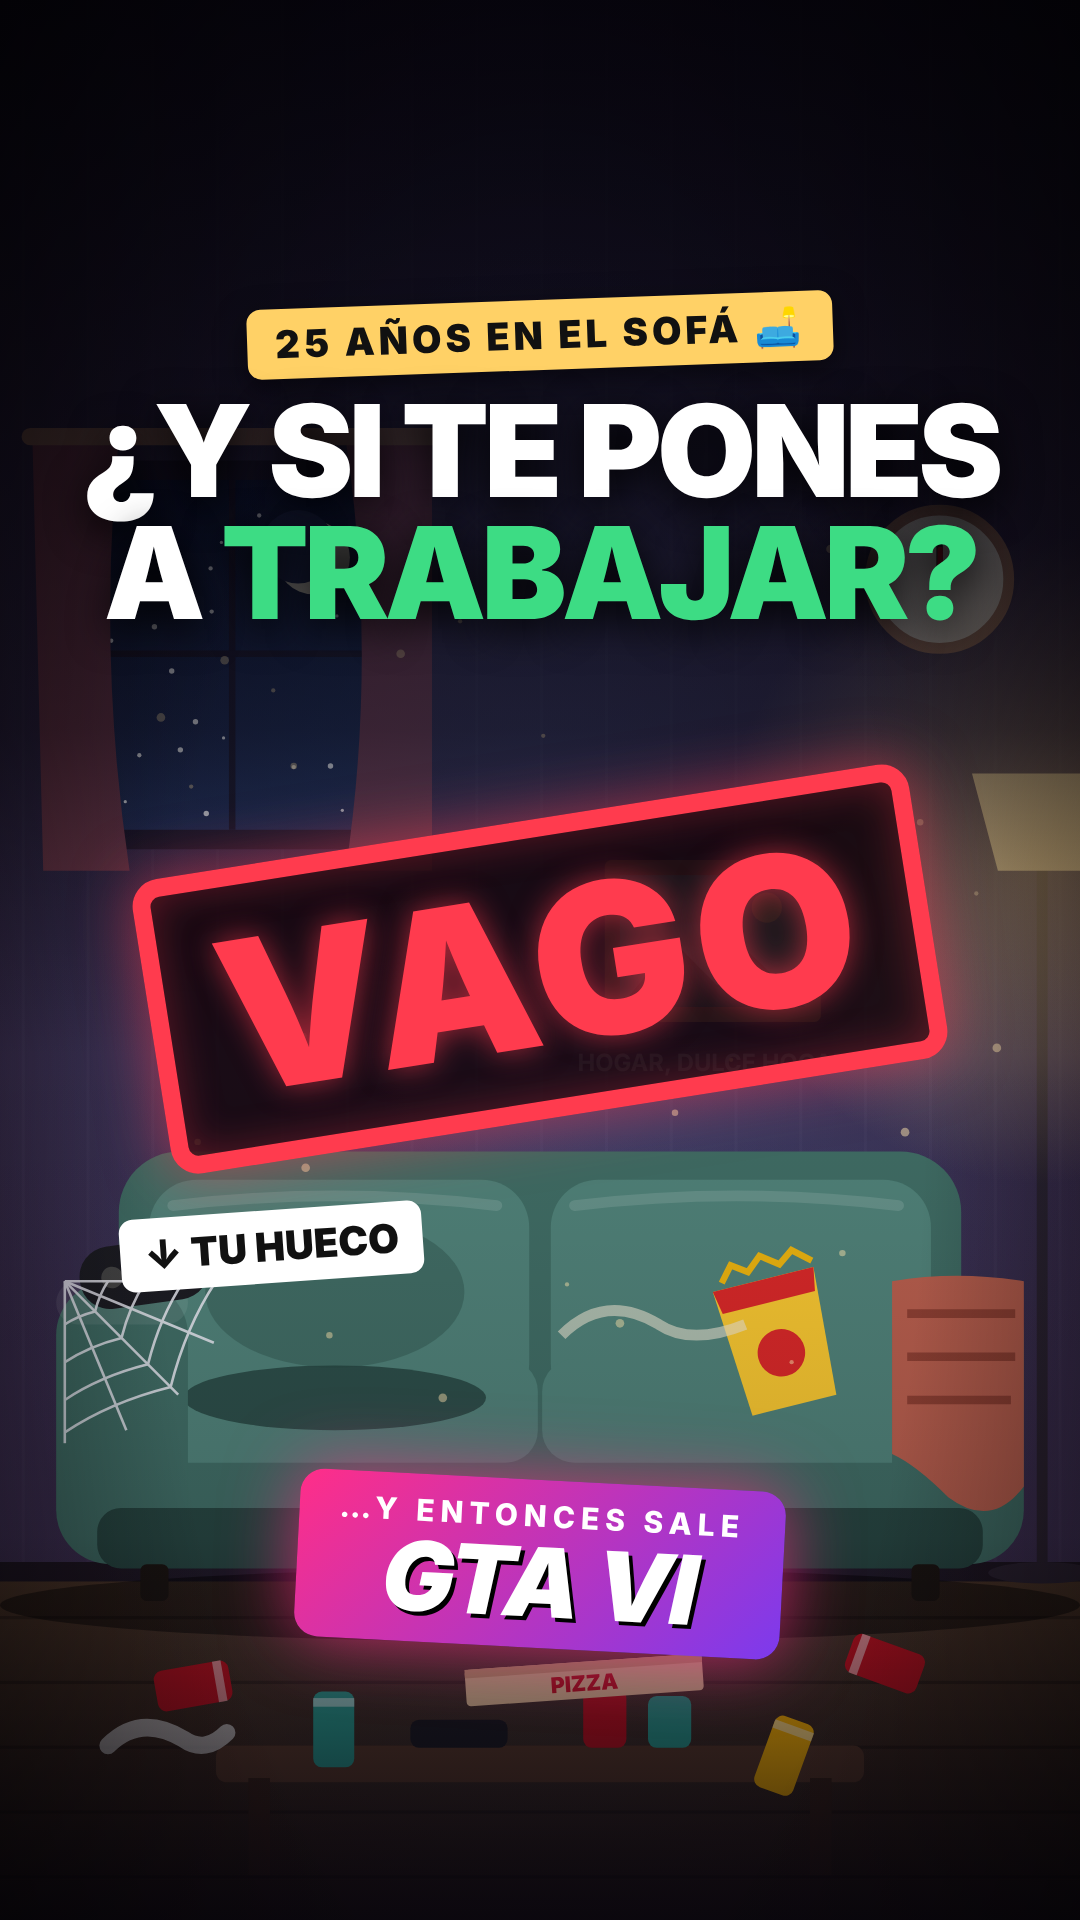
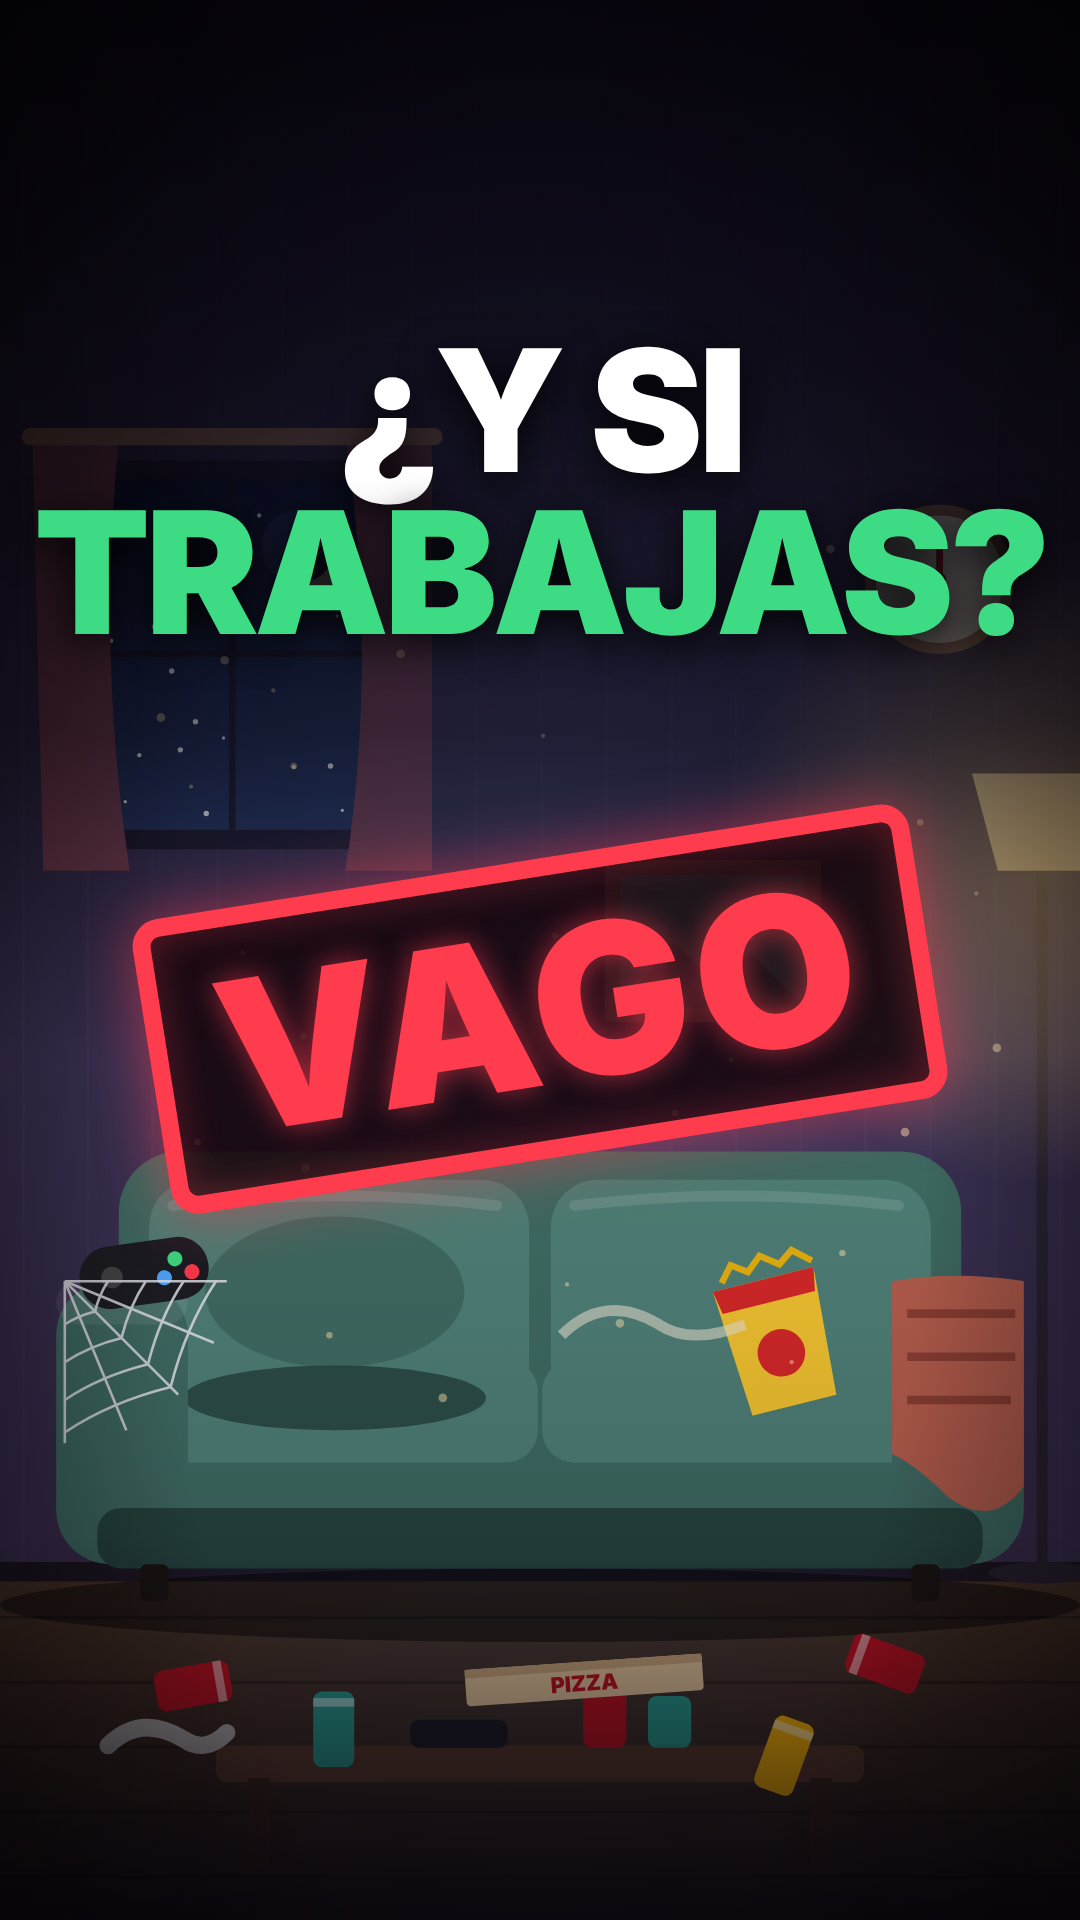
Vago: miniatura más limpia (menos texto, sin GTA)
Claude-Session: https://claude.ai/code/session_01FgZK386kKeQpy1Cb9CVWWu

Changed region(s): [[0.0917, 0.375, 0.8861, 0.6875], [0.0306, 0.125, 0.9778, 0.3438], [0.2444, 0.75, 0.7639, 0.9062]]

diff --git a/quiz-video/animado/vago/miniatura/mini.html b/quiz-video/animado/vago/miniatura/mini.html
@@ -5,8 +5,8 @@
 #vin{position:absolute;inset:0;background:radial-gradient(ellipse at 50% 60%,transparent 50%,rgba(0,0,0,.65) 100%)}
 .c{position:absolute;left:0;right:0;text-align:center;color:#fff}
 #pill{top:300px} #pill span{display:inline-block;font:900 38px Inter;letter-spacing:4px;color:#111;background:#ffd166;padding:12px 28px;border-radius:14px;transform:rotate(-2deg);box-shadow:0 10px 30px rgba(0,0,0,.5)}
-#tit{top:390px;font:900 128px/0.95 Inter;letter-spacing:-5px;text-shadow:0 10px 40px rgba(0,0,0,.9)} #tit b{color:#3ddc84}
-#vago{top:820px} #vago span{display:inline-block;font:900 210px Inter;letter-spacing:6px;color:#ff3b4e;padding:4px 50px;border:18px solid #ff3b4e;border-radius:28px;transform:rotate(-9deg);
+#tit{top:330px;font:900 170px/0.95 Inter;letter-spacing:-5px;text-shadow:0 10px 40px rgba(0,0,0,.9)} #tit b{color:#3ddc84}
+#vago{top:860px} #vago span{display:inline-block;font:900 210px Inter;letter-spacing:6px;color:#ff3b4e;padding:4px 50px;border:18px solid #ff3b4e;border-radius:28px;transform:rotate(-9deg);
   background:rgba(20,5,10,.85);box-shadow:0 0 60px rgba(255,59,78,.55),inset 0 0 40px rgba(255,59,78,.3);text-shadow:0 0 30px rgba(255,59,78,.6)}
 #flecha{top:1210px;left:120px;right:auto;font:900 40px Inter;color:#111;background:#fff;padding:12px 24px;border-radius:14px;transform:rotate(-4deg)}
 #gta{top:1480px} #gta div{display:inline-block;padding:18px 40px;border-radius:24px;background:linear-gradient(135deg,#ff2e88,#7c3aed);box-shadow:0 0 70px rgba(255,46,136,.7);transform:rotate(3deg)}
@@ -20,7 +20,7 @@
  <path d="M70,510 h80 q-20,200 10,400 h-80 z" fill="#7a3b4b"/><path d="M360,510 h80 v400 h-80 q30,-200 0,-400z" fill="#7a3b4b"/><rect x="60" y="500" width="390" height="16" rx="8" fill="#a0715a"/></g>
 <g transform="translate(600,900)"><rect width="200" height="150" rx="6" fill="#a0715a"/><rect x="14" y="14" width="172" height="122" fill="#6fa8a0"/>
  <path d="M14,136 l50,-60 l40,40 l30,-30 l52,50 z" fill="#3f6b63"/><circle cx="150" cy="44" r="14" fill="#ffe7a0"/></g>
-<text x="700" y="1095" font-family="Inter" font-weight="700" font-size="22" fill="#fff" opacity="0.35" text-anchor="middle">HOGAR, DULCE HOGAR</text>
+<text x="700" y="1095" font-family="Inter" font-weight="700" font-size="22" fill="#fff" opacity="0.35" text-anchor="middle"></text>
 <g transform="translate(910,640)"><circle r="64" fill="#efe6d8"/><circle r="64" fill="none" stroke="#a0715a" stroke-width="10"/>
  <rect id="m_aguja1" x="-3" y="-44" width="6" height="44" rx="3" fill="#222"/><rect id="m_aguja2" x="-2" y="-30" width="5" height="30" rx="3" fill="#c1121f"/><circle r="6" fill="#222"/></g>
 <g><rect x="1000" y="900" width="10" height="660" fill="#2b2230"/><ellipse cx="1005" cy="1560" rx="50" ry="10" fill="#2b2230"/>
@@ -51,9 +51,6 @@
  <path d="M880,1320 h100 M880,1360 h100 M880,1400 h96" stroke="#8c3f32" stroke-width="8"/>
  <g transform="translate(560,1340)"><path d="M0,0 q40,-40 90,-10 q30,20 80,0" stroke="#e9e3d0" stroke-width="10" fill="none" opacity="0.6"/></g>
 </g><g id="m_basura"><g transform="translate(470,1650) rotate(-4)"><rect width="220" height="34" rx="4" fill="#e6c79c"/><rect y="0" width="220" height="8" fill="#c9a679"/><text x="110" y="27" font-family="Inter" font-weight="900" font-size="20" fill="#c1121f" text-anchor="middle">PIZZA</text></g><g transform="translate(250,1640) rotate(80)"><rect width="38" height="70" rx="8" fill="#c1121f"/><rect y="6" width="38" height="8" fill="#fff" opacity="0.5"/></g><g transform="translate(330,1670) rotate(0)"><rect width="38" height="70" rx="8" fill="#2a9d8f"/><rect y="6" width="38" height="8" fill="#fff" opacity="0.5"/></g><g transform="translate(820,1650) rotate(-70)"><rect width="38" height="70" rx="8" fill="#c1121f"/><rect y="6" width="38" height="8" fill="#fff" opacity="0.5"/></g><g transform="translate(760,1690) rotate(20)"><rect width="38" height="70" rx="8" fill="#ffb703"/><rect y="6" width="38" height="8" fill="#fff" opacity="0.5"/></g><path d="M140,1720 q30,-30 70,-6 q20,14 40,-6" stroke="#f1f1f1" stroke-width="16" fill="none" stroke-linecap="round" opacity="0.7"/></g><g id="m_telarana" opacity="0.85" stroke="#e8e8f0" stroke-width="2.4" fill="none"><path pathLength="1" stroke-dasharray="1" stroke-dashoffset="0" d="M100,1290 L250,1290"/><path pathLength="1" stroke-dasharray="1" stroke-dashoffset="0" d="M100,1290 L238.0,1347.0"/><path pathLength="1" stroke-dasharray="1" stroke-dashoffset="0" d="M100,1290 L205.0,1395.0"/><path pathLength="1" stroke-dasharray="1" stroke-dashoffset="0" d="M100,1290 L157.0,1428.0"/><path pathLength="1" stroke-dasharray="1" stroke-dashoffset="0" d="M100,1290 L100,1440"/><path pathLength="1" stroke-dasharray="1" stroke-dashoffset="0" d="M140,1290 Q132.0,1302.0 128.0,1318.0 Q112.0,1322.0 100,1330"/><path pathLength="1" stroke-dasharray="1" stroke-dashoffset="0" d="M175,1290 Q160.0,1312.5 152.5,1342.5 Q122.5,1350.0 100,1365"/><path pathLength="1" stroke-dasharray="1" stroke-dashoffset="0" d="M210,1290 Q188.0,1323.0 177.0,1367.0 Q133.0,1378.0 100,1400"/><path pathLength="1" stroke-dasharray="1" stroke-dashoffset="0" d="M240,1290 Q212.0,1332.0 198.0,1388.0 Q142.0,1402.0 100,1430"/></g><circle class="polvo" cx="944" cy="931" r="2" fill="#ffe7b0" opacity="0.5"/><circle class="polvo" cx="217" cy="832" r="2" fill="#ffe7b0" opacity="0.5"/><circle class="polvo" cx="963" cy="1074" r="4" fill="#ffe7b0" opacity="0.5"/><circle class="polvo" cx="323" cy="1185" r="4" fill="#ffe7b0" opacity="0.5"/><circle class="polvo" cx="321" cy="1063" r="3" fill="#ffe7b0" opacity="0.5"/><circle class="polvo" cx="717" cy="1085" r="2" fill="#ffe7b0" opacity="0.5"/><circle class="polvo" cx="892" cy="865" r="3" fill="#ffe7b0" opacity="0.5"/><circle class="polvo" cx="411" cy="709" r="4" fill="#ffe7b0" opacity="0.5"/><circle class="polvo" cx="312" cy="813" r="3" fill="#ffe7b0" opacity="0.5"/><circle class="polvo" cx="554" cy="970" r="3" fill="#ffe7b0" opacity="0.5"/><circle class="polvo" cx="665" cy="1134" r="3" fill="#ffe7b0" opacity="0.5"/><circle class="polvo" cx="543" cy="785" r="2" fill="#ffe7b0" opacity="0.5"/><circle class="polvo" cx="565" cy="1293" r="2" fill="#ffe7b0" opacity="0.5"/><circle class="polvo" cx="345" cy="1340" r="3" fill="#ffe7b0" opacity="0.5"/><circle class="polvo" cx="189" cy="768" r="4" fill="#ffe7b0" opacity="0.5"/><circle class="polvo" cx="293" cy="743" r="2" fill="#ffe7b0" opacity="0.5"/><circle class="polvo" cx="450" cy="1398" r="4" fill="#ffe7b0" opacity="0.5"/><circle class="polvo" cx="614" cy="1329" r="4" fill="#ffe7b0" opacity="0.5"/><circle class="polvo" cx="265" cy="986" r="2" fill="#ffe7b0" opacity="0.5"/><circle class="polvo" cx="773" cy="1365" r="2" fill="#ffe7b0" opacity="0.5"/><circle class="polvo" cx="820" cy="1264" r="3" fill="#ffe7b0" opacity="0.5"/><circle class="polvo" cx="248" cy="715" r="4" fill="#ffe7b0" opacity="0.5"/><circle class="polvo" cx="223" cy="1161" r="3" fill="#ffe7b0" opacity="0.5"/><circle class="polvo" cx="878" cy="1152" r="4" fill="#ffe7b0" opacity="0.5"/><circle class="polvo" cx="809" cy="612" r="4" fill="#ffe7b0" opacity="0.5"/><circle class="polvo" cx="466" cy="679" r="2" fill="#ffe7b0" opacity="0.5"/></svg><div id="osc"></div><div id="vin"></div>
-<div class="c" id="pill"><span>25 AÑOS EN EL SOFÁ 🛋</span></div>
-<div class="c" id="tit">¿Y SI TE PONES<br>A <b>TRABAJAR?</b></div>
+<div class="c" id="tit">¿Y SI<br><b>TRABAJAS?</b></div>
 <div class="c" id="vago"><span>VAGO</span></div>
-<div class="c" id="flecha">↓ TU HUECO</div>
-<div class="c" id="gta"><div><small>…Y ENTONCES SALE</small><b>GTA VI</b></div></div>
 </body></html>

diff --git a/quiz-video/animado/vago/miniatura/hacer.py b/quiz-video/animado/vago/miniatura/hacer.py
@@ -3,7 +3,7 @@
 import os, sys, subprocess
 B = os.path.dirname(os.path.dirname(os.path.abspath(__file__))); sys.path.insert(0, B)
 import _sets
-svg = _sets.salon("m").replace('stroke-dashoffset="1"', 'stroke-dashoffset="0"').replace('visibility:hidden', '')
+svg = _sets.salon("m").replace('stroke-dashoffset="1"', 'stroke-dashoffset="0"').replace('visibility:hidden', '').replace('HOGAR, DULCE HOGAR', '')
 html = f'''<!doctype html><html><head><meta charset="utf-8"><style>
 *{{margin:0;padding:0;box-sizing:border-box}} body{{width:1080px;height:1920px;overflow:hidden;background:#000;font-family:Inter}}
 .set{{position:absolute;inset:0;transform:scale(1.08);transform-origin:540px 1400px}}
@@ -11,18 +11,15 @@ html = f'''<!doctype html><html><head><meta charset="utf-8"><style>
 #vin{{position:absolute;inset:0;background:radial-gradient(ellipse at 50% 60%,transparent 50%,rgba(0,0,0,.65) 100%)}}
 .c{{position:absolute;left:0;right:0;text-align:center;color:#fff}}
 #pill{{top:300px}} #pill span{{display:inline-block;font:900 38px Inter;letter-spacing:4px;color:#111;background:#ffd166;padding:12px 28px;border-radius:14px;transform:rotate(-2deg);box-shadow:0 10px 30px rgba(0,0,0,.5)}}
-#tit{{top:390px;font:900 128px/0.95 Inter;letter-spacing:-5px;text-shadow:0 10px 40px rgba(0,0,0,.9)}} #tit b{{color:#3ddc84}}
-#vago{{top:820px}} #vago span{{display:inline-block;font:900 210px Inter;letter-spacing:6px;color:#ff3b4e;padding:4px 50px;border:18px solid #ff3b4e;border-radius:28px;transform:rotate(-9deg);
+#tit{{top:330px;font:900 170px/0.95 Inter;letter-spacing:-5px;text-shadow:0 10px 40px rgba(0,0,0,.9)}} #tit b{{color:#3ddc84}}
+#vago{{top:860px}} #vago span{{display:inline-block;font:900 210px Inter;letter-spacing:6px;color:#ff3b4e;padding:4px 50px;border:18px solid #ff3b4e;border-radius:28px;transform:rotate(-9deg);
   background:rgba(20,5,10,.85);box-shadow:0 0 60px rgba(255,59,78,.55),inset 0 0 40px rgba(255,59,78,.3);text-shadow:0 0 30px rgba(255,59,78,.6)}}
 #flecha{{top:1210px;left:120px;right:auto;font:900 40px Inter;color:#111;background:#fff;padding:12px 24px;border-radius:14px;transform:rotate(-4deg)}}
 #gta{{top:1480px}} #gta div{{display:inline-block;padding:18px 40px;border-radius:24px;background:linear-gradient(135deg,#ff2e88,#7c3aed);box-shadow:0 0 70px rgba(255,46,136,.7);transform:rotate(3deg)}}
 #gta small{{display:block;font:800 30px Inter;letter-spacing:6px}} #gta b{{font:italic 900 96px/1 Inter;letter-spacing:-2px;text-shadow:4px 4px 0 #000}}
 </style></head><body>{svg}<div id="osc"></div><div id="vin"></div>
-<div class="c" id="pill"><span>25 AÑOS EN EL SOFÁ 🛋</span></div>
-<div class="c" id="tit">¿Y SI TE PONES<br>A <b>TRABAJAR?</b></div>
+<div class="c" id="tit">¿Y SI<br><b>TRABAJAS?</b></div>
 <div class="c" id="vago"><span>VAGO</span></div>
-<div class="c" id="flecha">↓ TU HUECO</div>
-<div class="c" id="gta"><div><small>…Y ENTONCES SALE</small><b>GTA VI</b></div></div>
 </body></html>'''
 open(os.path.join(B, "miniatura", "mini.html"), "w", encoding="utf-8").write(html)
 js = f'''const {{chromium}}=require('playwright');(async()=>{{const b=await chromium.launch();const p=await b.newPage({{viewport:{{width:1080,height:1920}}}});
